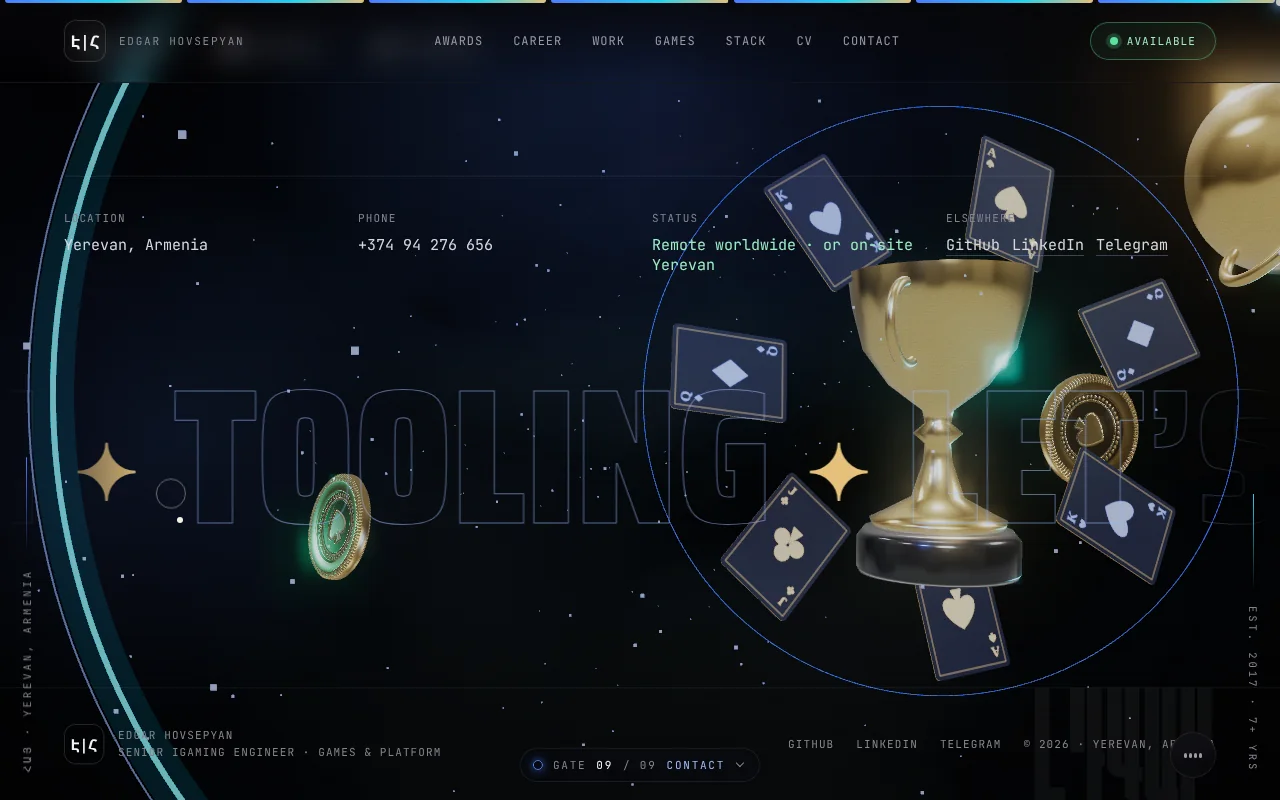
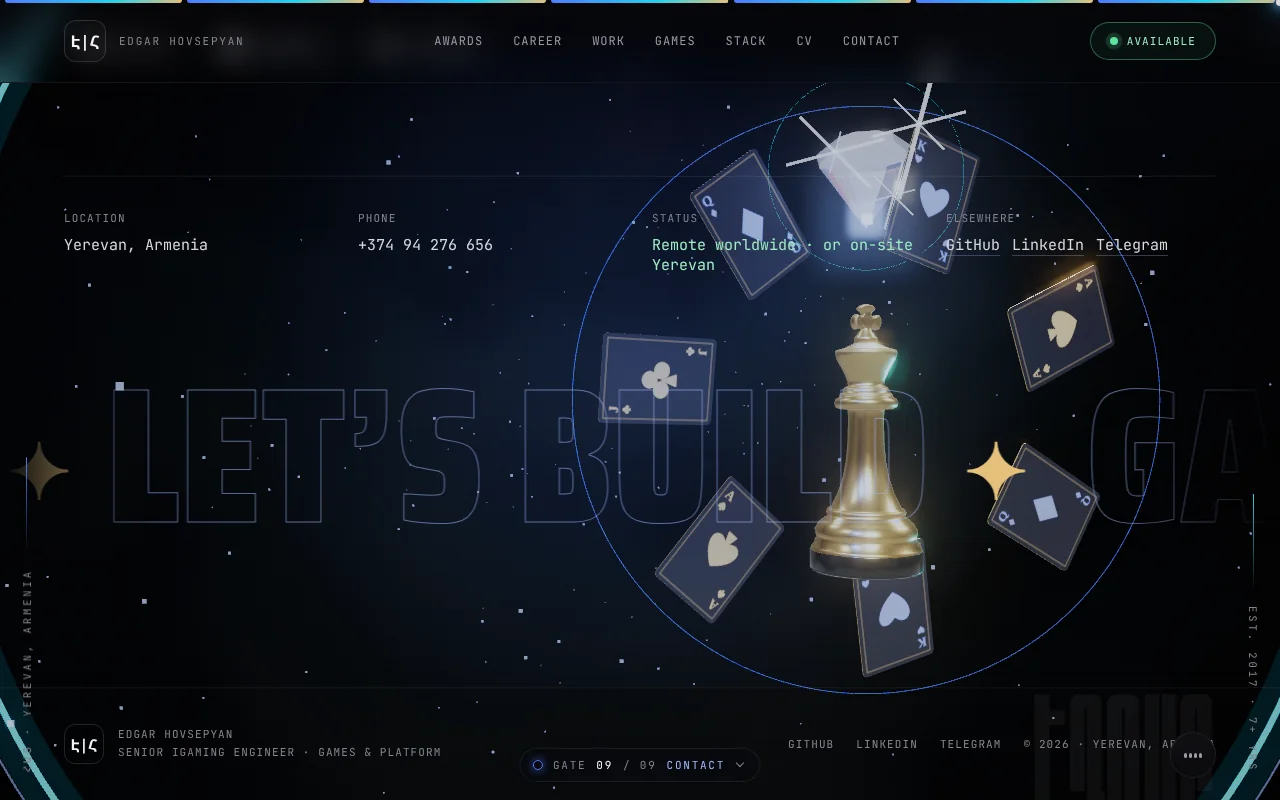
Finale: gold king under a brilliant-cut diamond
The centrepiece behind the contact section is now the chess king on an
obsidian plinth, with a diamond hovering over the crown: its own light,
six-point glints that twinkle out of step, and a small ring around it.
The last stretch of the corridor carries no loose pieces, so the finale
stands alone. README image and caption updated.

Claude-Session: https://claude.ai/code/session_018CxHpoaqwaNnabH2ezhRsh

diff --git a/src/three/createGateScene.ts b/src/three/createGateScene.ts
@@ -19,6 +19,8 @@ import {
   OctahedronGeometry,
   PerspectiveCamera,
   PMREMGenerator,
+  PlaneGeometry,
+  PointLight,
   Points,
   PointsMaterial,
   Scene,
@@ -161,6 +163,12 @@ const TROPHY_PROFILE = [
 
 const PLINTH_PROFILE = [
   [0, -0.68], [0.3, -0.68], [0.31, -0.66], [0.31, -0.54], [0.28, -0.5], [0, -0.5],
+].map(([x, y]) => new Vector2(x, y));
+
+/** Brilliant-cut stone: table, crown, girdle, pavilion down to the culet.
+ *  Revolved in eight steps and flat-shaded, so every facet catches on its own. */
+const BRILLIANT_PROFILE = [
+  [0, 0.3], [0.25, 0.3], [0.45, 0.14], [0.45, 0.1], [0, -0.5],
 ].map(([x, y]) => new Vector2(x, y));
 
 /** The revolved coin, re-mapped so a flat drawing lands on each face. */
@@ -463,6 +471,8 @@ export function createGateScene(
     coin: coinGeometry(),
     trophy: new LatheGeometry(TROPHY_PROFILE, 80),
     plinth: new LatheGeometry(PLINTH_PROFILE, 64),
+    brilliant: new LatheGeometry(BRILLIANT_PROFILE, 8),
+    glint: new PlaneGeometry(1, 0.028),
     handle: new TorusGeometry(0.15, 0.02, 14, 48, Math.PI * 1.15),
     knot: new TorusKnotGeometry(0.34, 0.115, 180, 28),
     gem: new OctahedronGeometry(0.5, 0),
@@ -581,6 +591,38 @@ export function createGateScene(
       color: "#d7b26a",
       metalness: 1,
       roughness: 0.3,
+    }),
+    // The crown stone: clearer and more dispersive than the blue glass pieces.
+    diamond: mobile
+      ? new MeshPhysicalMaterial({
+          color: "#eaf2ff",
+          metalness: 0.1,
+          roughness: 0.02,
+          iridescence: 1,
+          iridescenceIOR: 2.0,
+          clearcoat: 1,
+          flatShading: true,
+        })
+      : new MeshPhysicalMaterial({
+          color: "#ffffff",
+          transmission: 1,
+          thickness: 0.9,
+          ior: 2.4,
+          dispersion: 9,
+          roughness: 0,
+          // a little light of its own, so the stone reads against the dark
+          emissive: new Color("#8fb8ff"),
+          emissiveIntensity: 0.3,
+          iridescence: 0.35,
+          clearcoat: 1,
+          flatShading: true,
+        }),
+    glint: new MeshBasicMaterial({
+      color: "#ffffff",
+      transparent: true,
+      opacity: 0.8,
+      blending: AdditiveBlending,
+      depthWrite: false,
     }),
     gate: new MeshBasicMaterial({ color: BLUE }),
     gateAlt: new MeshBasicMaterial({ color: CYAN }),
@@ -705,7 +747,9 @@ export function createGateScene(
     rings.push(ring);
 
     // The hero keeps its stage clear: the first stretch has the gate only.
-    for (let i = 0; g > 0 && i < perGate; i++) {
+    // The first stretch is the hero's and the last is the finale's: no loose
+    // pieces in either.
+    for (let i = 0; g > 0 && g < gates - 1 && i < perGate; i++) {
       const kit = kits[(g - 1) % kits.length]!;
       const mesh = kit[i % kit.length]!();
       // Keep the reading column clear: objects live left and right of centre.
@@ -765,11 +809,51 @@ export function createGateScene(
     piece.scale.setScalar(0.95);
     hand.add(piece);
   }
-  const trophy = goblet();
-  trophy.scale.setScalar(1.7);
+  // The centrepiece is the king: gold, on an obsidian plinth, with a
+  // brilliant-cut diamond hovering over the crown. The stone turns on its own
+  // axis, throws two crossed glints that twinkle out of step, and carries a
+  // small light so its colour lands on the gold beneath it.
+  const trophy = new Group();
+  const monarch = king();
+  monarch.scale.setScalar(1.45);
+  const plinth = new Mesh(geometry.plinth, material.obsidian);
+  plinth.scale.set(1.5, 1.2, 1.5);
+  plinth.position.y = -0.36;
+  trophy.add(monarch, plinth);
+  trophy.position.y = -0.25;
+
+  const stone = new Group();
+  const diamond = new Mesh(geometry.brilliant, material.diamond);
+  diamond.scale.setScalar(0.95);
+  stone.add(diamond);
+  const glints: Mesh[] = [];
+  for (const [x, y, size] of [
+    [0.3, 0.26, 1.25],
+    [-0.36, 0.04, 0.8],
+    [0.1, -0.3, 0.6],
+  ] as const) {
+    // three rays per glint, sixty degrees apart: a six-point star
+    for (const turn of [0, Math.PI / 3, (Math.PI * 2) / 3]) {
+      const ray = new Mesh(geometry.glint, material.glint);
+      ray.position.set(x, y, 0.5);
+      ray.rotation.z = turn + 0.26;
+      ray.userData.size = size;
+      ray.userData.phase = glints.length * 1.7;
+      stone.add(ray);
+      glints.push(ray);
+    }
+  }
+  const stoneLight = new PointLight(new Color("#bcd6ff"), 3.2, 4.5, 2);
+  stone.add(stoneLight);
+  stone.position.y = 1.85;
+
   const crown = new Mesh(geometry.halo, material.gate);
   crown.scale.setScalar(0.72);
-  finale.add(hand, trophy, crown);
+  // A second, smaller ring around the stone itself.
+  const aura = new Mesh(geometry.halo, material.gateAlt);
+  aura.scale.setScalar(0.24);
+  aura.position.y = 1.85;
+  finale.add(hand, trophy, stone, crown, aura);
   finale.position.set(0, 0, -(gates - 1) * GATE_SPACING - 3.6);
   scene.add(finale);
 
@@ -952,7 +1036,15 @@ export function createGateScene(
     }
     dust.rotation.z += dt * 0.012;
     hand.rotation.z += dt * (0.12 + energy * 0.9);
-    trophy.rotation.y += dt * 0.5;
+    trophy.rotation.y += dt * 0.4;
+    diamond.rotation.y -= dt * 0.9;
+    stone.position.y = 1.85 + Math.sin(clock * 0.9) * 0.06;
+    aura.position.y = stone.position.y;
+    aura.rotation.z -= dt * 0.6;
+    for (const ray of glints) {
+      const twinkle = 0.35 + 0.65 * Math.abs(Math.sin(clock * 1.7 + (ray.userData.phase as number)));
+      ray.scale.setScalar((ray.userData.size as number) * twinkle);
+    }
     finale.position.x = 1.9 * (spread - 0.42) * 1.72;
     // On portrait screens the finale sits low, under the call to action.
     finale.position.y = -1.55 * wings;

diff --git a/README.md b/README.md
@@ -66,7 +66,7 @@ The full CV is in [`CV-2026.md`](CV-2026.md), and on the site as PDF and Word.
   </tr>
   <tr>
     <td><img src=".github/media/cv.webp" alt="Four paper sheets fanned on a dark background" /><br /><sub><b>CV.</b> Four sheets dealt like a hand of cards: two files for application portals, two designed for people.</sub></td>
-    <td><img src=".github/media/finale.webp" alt="A ring of playing cards turning around a gold trophy" /><br /><sub><b>Finale.</b> Past the last gate, a ring of cards turns around the trophy behind the contact section.</sub></td>
+    <td><img src=".github/media/finale.webp" alt="A ring of playing cards turning around a gold chess king with a diamond above it" /><br /><sub><b>Finale.</b> Past the last gate, a ring of cards turns around a gold king with a diamond over its crown, behind the contact section.</sub></td>
   </tr>
 </table>
 
